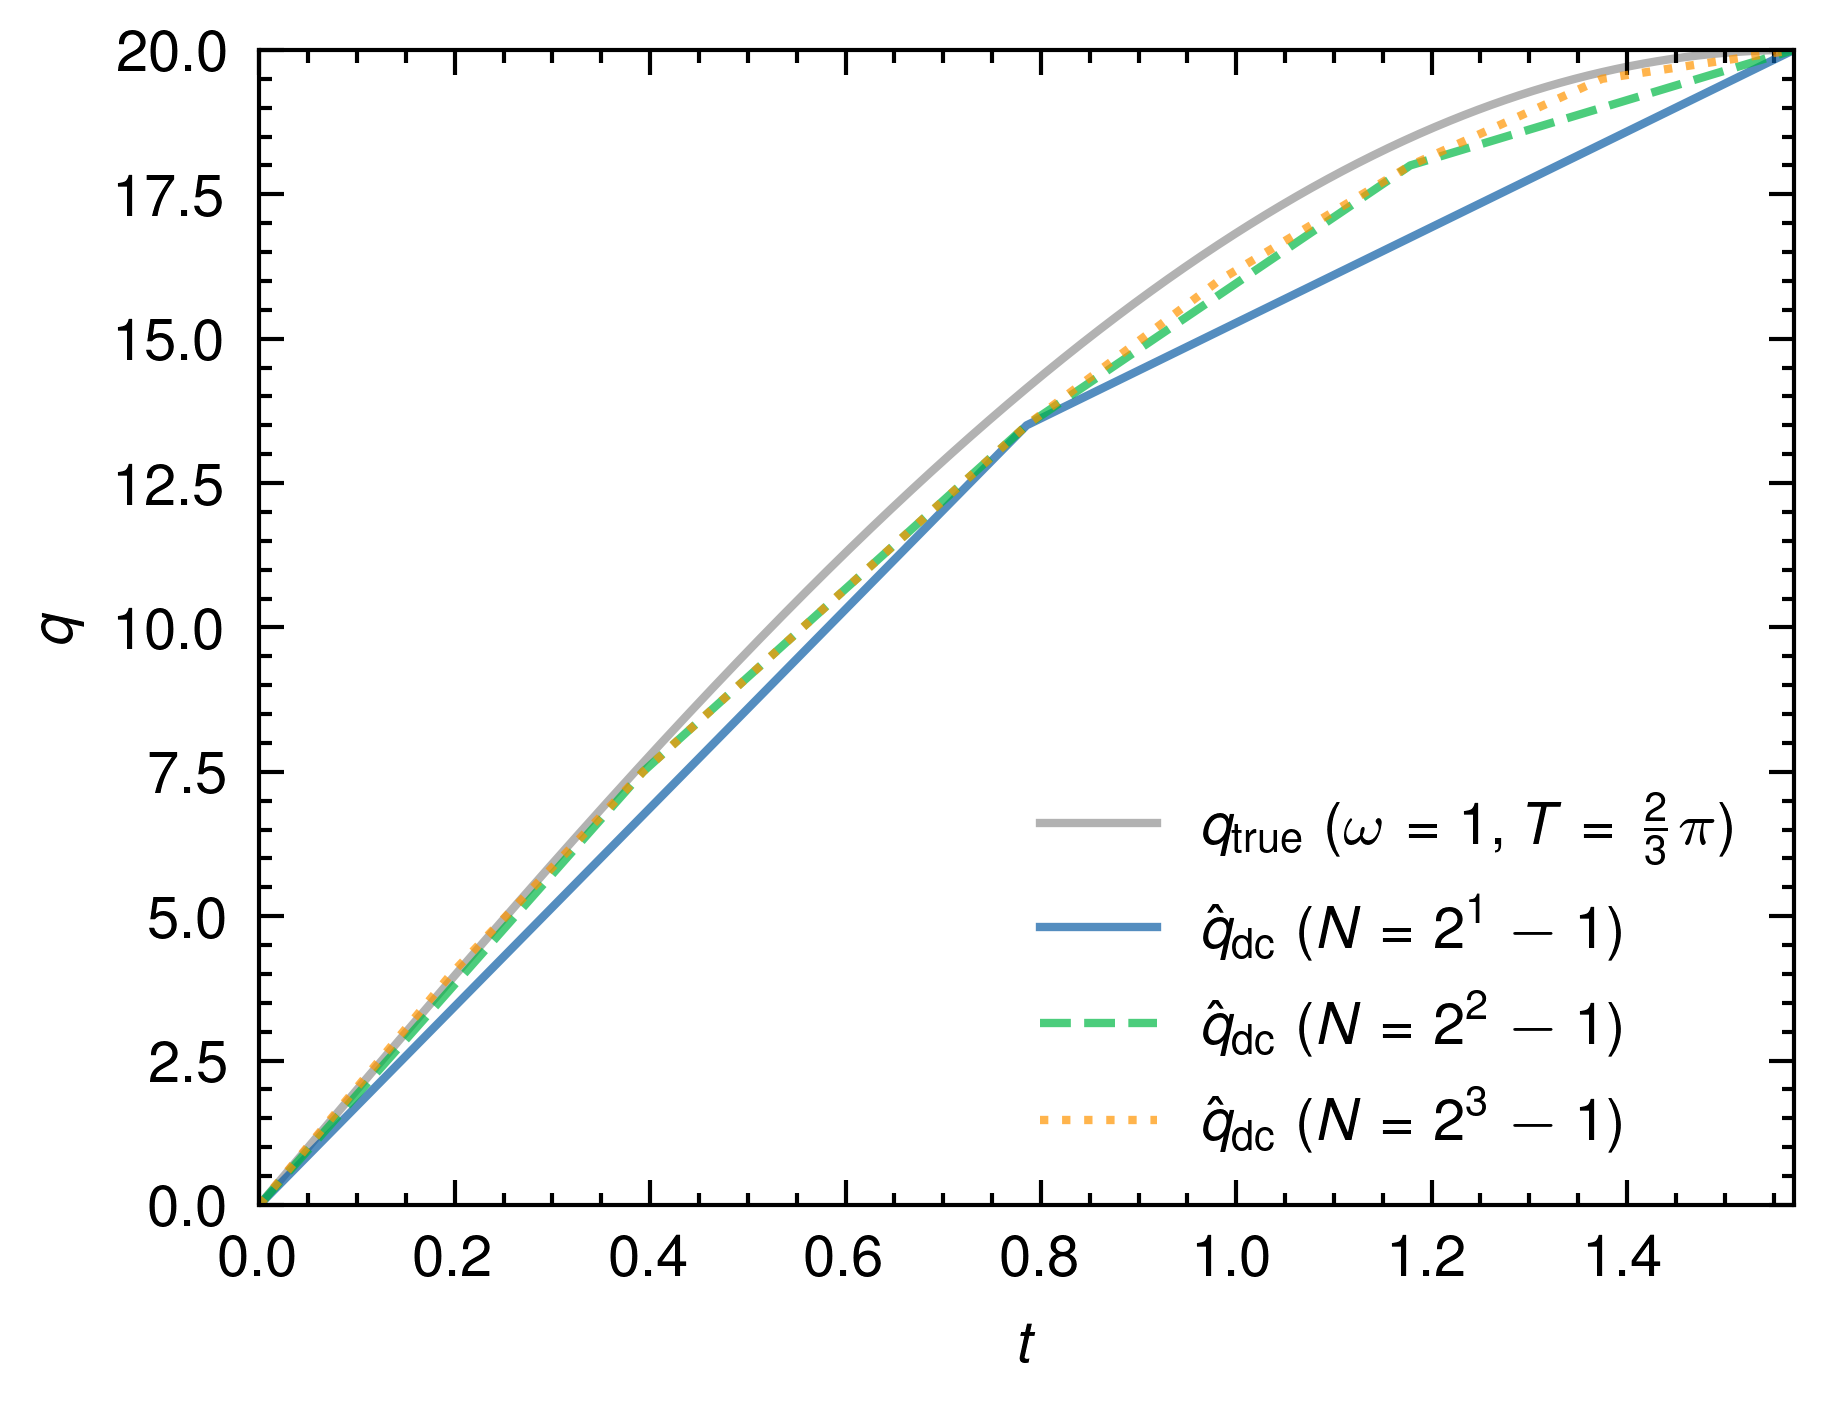
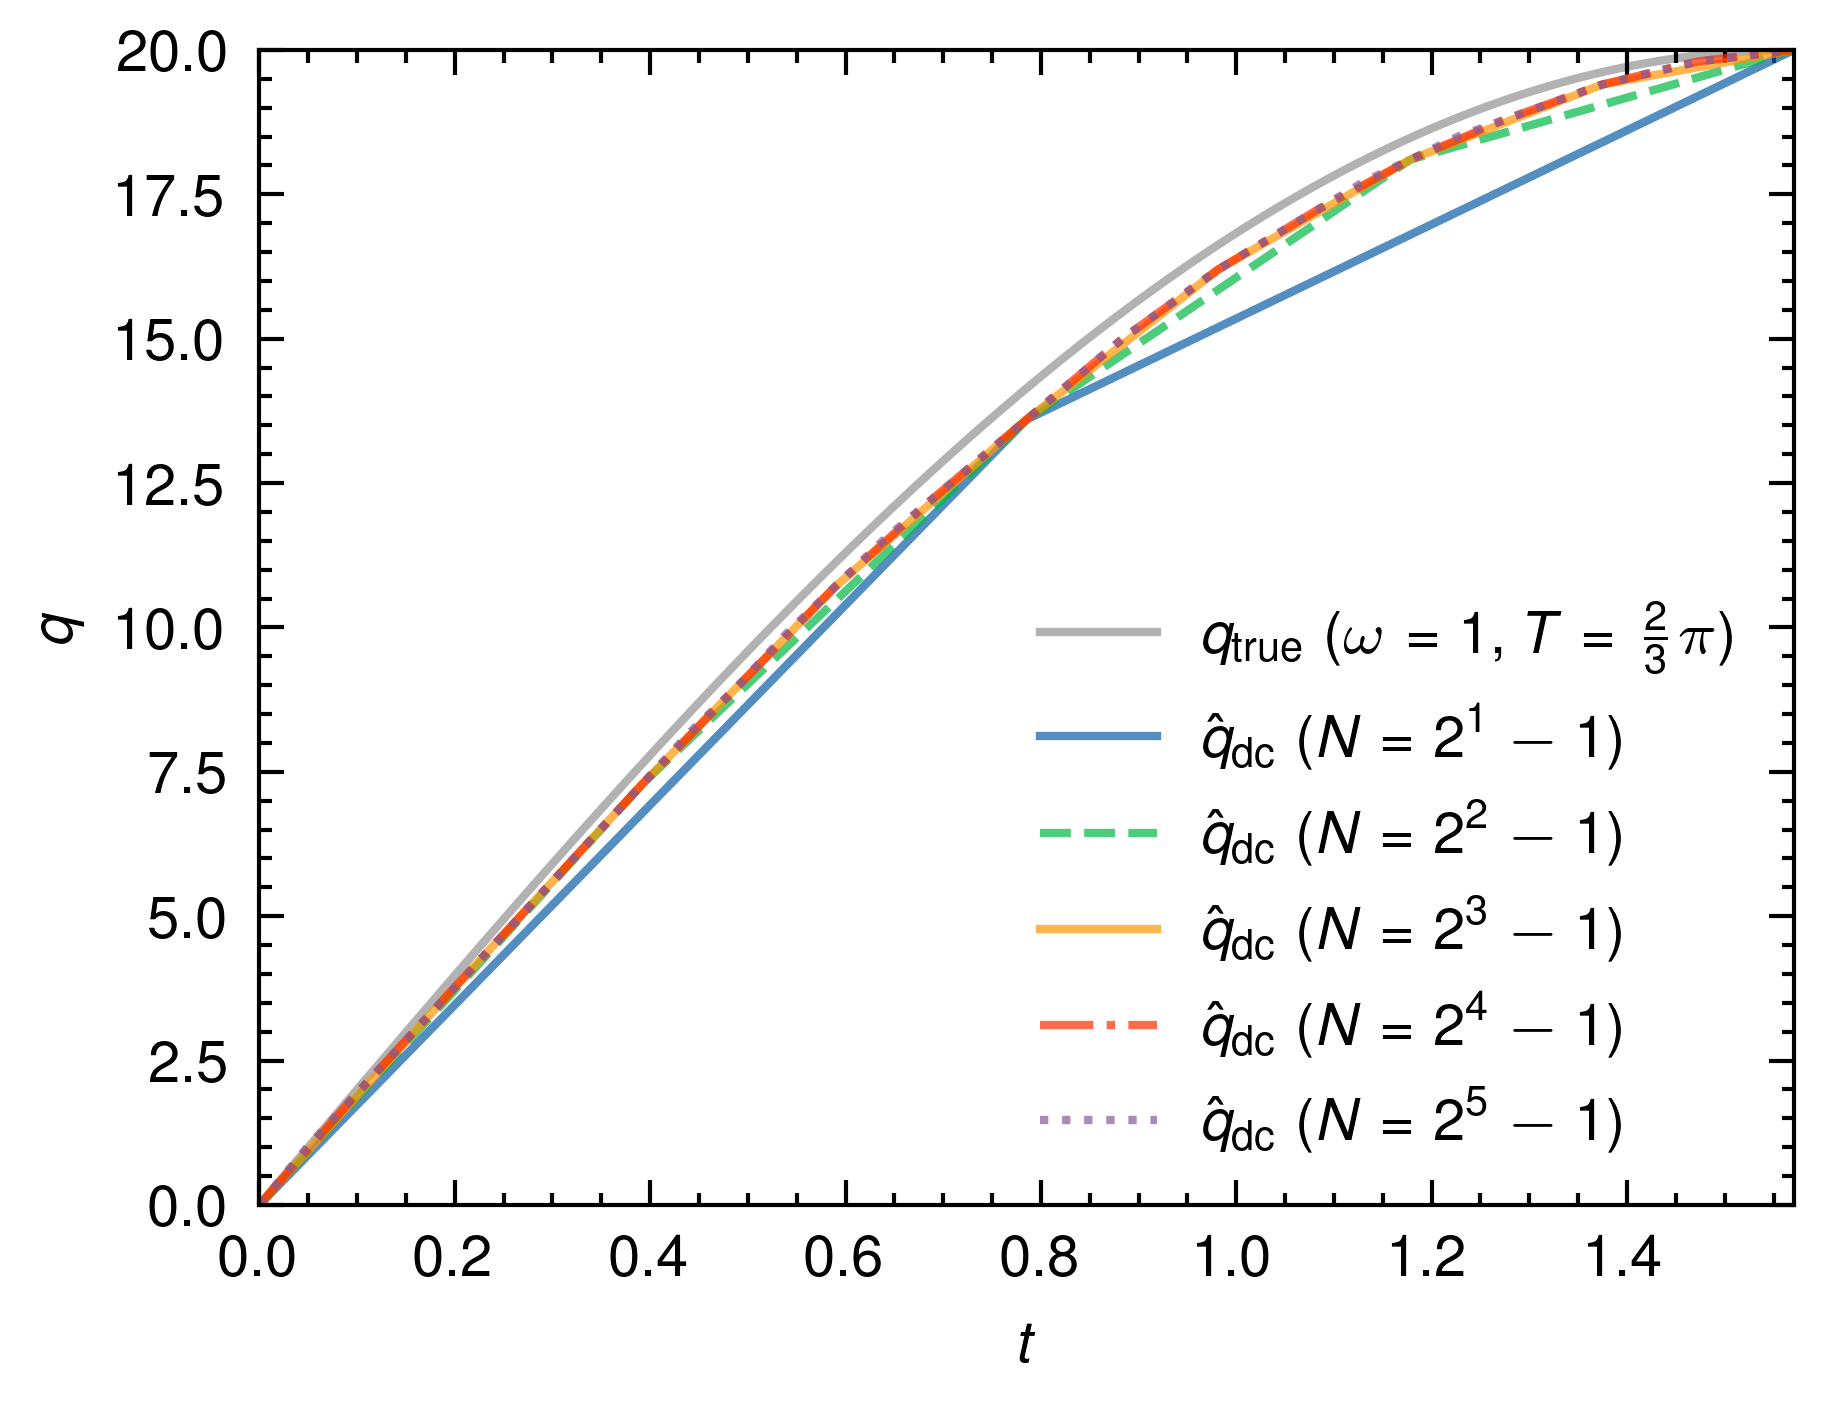
Divide, Conquer and Correct

diff --git a/algola/src/main.rs b/algola/src/main.rs
@@ -1,49 +1,53 @@
-use std::f64::consts::PI;
-use itertools::{Itertools, repeat_n};
-use peroxide::fuga::*;
+use itertools::{repeat_n, Itertools};
+use peroxide::{fuga::*, traits::float::FloatWithPrecision};
 use rayon::prelude::*;
+use std::f64::consts::PI;
 
 #[allow(non_snake_case)]
 fn main() {
     let A = 0.0;
     let B = 20.0;
-    let dq = 0.5;
-    let node_pool = seq(A + dq, B - dq, dq);
+    let dq = 0.1;
+    let node_pool = seq(A + dq, B, dq);
+    let node_pool = node_pool.fmap(|x| x.round_with_precision(1));
 
     let omega = 1f64;
     let T = PI / 2f64;
     let potential = HarmonicOscillator1D::new(omega);
 
     let t_true = linspace(0, T, 1000);
-    let q_true = t_true.fmap(|t| A * (omega * t).cos() + (B - A * (omega * T).cos()) / (omega *
-        T).sin() * (omega * t).sin());
+    let q_true = t_true.fmap(|t| {
+        A * (omega * t).cos() + (B - A * (omega * T).cos()) / (omega * T).sin() * (omega * t).sin()
+    });
 
     let mut df = DataFrame::new(vec![]);
     df.push("t", Series::new(t_true));
     df.push("q", Series::new(q_true));
     df.print();
 
-    df.write_parquet("true.parquet", CompressionOptions::Uncompressed).unwrap();
+    df.write_parquet("true.parquet", CompressionOptions::Uncompressed)
+        .unwrap();
 
     let mut df = DataFrame::new(vec![]);
 
-    let N_pool = 1 .. 4;
+    let N_pool = 1..6;
     for N in N_pool {
-        let bf_nodes = bruteforce_1d_parallel(&node_pool, 2usize.pow(N as u32) - 1, T, A, B, potential);
-        bf_nodes.print();
-        let dc_nodes = divide_and_conquer_1d(&node_pool, N-1, T, A, B, potential);
+        //let bf_nodes = bruteforce_1d_parallel(&node_pool, 2usize.pow(N as u32) - 1, T, A, B, potential);
+        //bf_nodes.print();
+        let dc_nodes = divide_and_conquer_1d(&node_pool, N - 1, T, A, B, potential);
         dc_nodes.print();
-        let dcc_nodes = divide_and_conquer_and_correct_1d(&node_pool, N-1, T, A, B, potential);
+        let dcc_nodes = divide_and_conquer_and_correct_1d(&node_pool, N - 1, T, A, dq, B, potential);
         dcc_nodes.print();
 
-        df.push(&format!("bf_{N}"), Series::new(bf_nodes));
+        //df.push(&format!("bf_{N}"), Series::new(bf_nodes));
         df.push(&format!("dc_{N}"), Series::new(dc_nodes));
         df.push(&format!("dcc_{N}"), Series::new(dcc_nodes));
     }
 
     df.print();
 
-    df.write_parquet("data.parquet", CompressionOptions::Uncompressed).unwrap();
+    df.write_parquet("data.parquet", CompressionOptions::Uncompressed)
+        .unwrap();
 }
 
 pub trait Potential1D: Clone {
@@ -59,7 +63,10 @@ pub struct HarmonicOscillator1D {
 
 impl HarmonicOscillator1D {
     pub fn new(omega: f64) -> HarmonicOscillator1D {
-        HarmonicOscillator1D { omega, omega2: omega.powi(2) }
+        HarmonicOscillator1D {
+            omega,
+            omega2: omega.powi(2),
+        }
     }
 }
 
@@ -72,13 +79,13 @@ impl Potential1D for HarmonicOscillator1D {
 #[allow(non_snake_case)]
 pub fn action_1d<F: Potential1D>(nodes: &[f64], T: f64, start: f64, end: f64, potential: F) -> f64 {
     let N = nodes.len();
-    let dt = T / ((N+1) as f64);
+    let dt = T / ((N + 1) as f64);
 
     let mut nodes = nodes.to_vec();
     nodes.insert(0, start);
     nodes.push(end);
 
-    let nodes_head = &nodes[0..N+1];
+    let nodes_head = &nodes[0..N + 1];
     let nodes_tail = &nodes[1..];
 
     let mut action = 0.0;
@@ -93,7 +100,18 @@ pub fn action_1d<F: Potential1D>(nodes: &[f64], T: f64, start: f64, end: f64, po
 }
 
 #[allow(non_snake_case)]
-pub fn bruteforce_1d<F: Potential1D>(node_pool: &[f64], N: usize, T: f64, start: f64, end: f64, potential: F) -> Vec<f64> {
+pub fn bruteforce_1d<F: Potential1D>(
+    node_pool: &[f64],
+    N: usize,
+    T: f64,
+    start: f64,
+    end: f64,
+    potential: F,
+) -> Vec<f64> {
+    if node_pool.len() == 1 {
+        return vec![node_pool[0]];
+    }
+
     let mut best_action = std::f64::MAX;
     let mut best_nodes = vec![0f64; N];
     for nodes in node_pool.iter().cloned().combinations(N) {
@@ -107,65 +125,144 @@ pub fn bruteforce_1d<F: Potential1D>(node_pool: &[f64], N: usize, T: f64, start:
 }
 
 #[allow(non_snake_case)]
-pub fn bruteforce_1d_parallel<F: Potential1D + Sync>(node_pool: &[f64], N: usize, T: f64, start: f64, end: f64, potential: F) -> Vec<f64> {
+pub fn bruteforce_1d_parallel<F: Potential1D + Sync>(
+    node_pool: &[f64],
+    N: usize,
+    T: f64,
+    start: f64,
+    end: f64,
+    potential: F,
+) -> Vec<f64> {
     let node_combs = node_pool.iter().cloned().combinations(N).collect_vec();
 
-    node_combs.into_par_iter().map(|nodes| {
-        let action = action_1d(&nodes, T, start, end, potential.clone());
-        (action, nodes.clone())
-    }).max_by(|a, b| b.0.partial_cmp(&a.0).unwrap()).unwrap().1
+    node_combs
+        .into_par_iter()
+        .map(|nodes| {
+            let action = action_1d(&nodes, T, start, end, potential.clone());
+            (action, nodes.clone())
+        })
+        .max_by(|a, b| b.0.partial_cmp(&a.0).unwrap())
+        .unwrap()
+        .1
 }
 
 #[allow(non_snake_case)]
-pub fn divide_and_conquer_1d<F: Potential1D>(node_pool: &[f64], D: usize, T: f64, start: f64, end: f64, potential: F) -> Vec<f64> {
+pub fn divide_and_conquer_1d<F: Potential1D>(
+    node_pool: &[f64],
+    D: usize,
+    T: f64,
+    start: f64,
+    end: f64,
+    potential: F,
+) -> Vec<f64> {
     if D == 0 {
         bruteforce_1d(node_pool, 1, T, start, end, potential.clone())
     } else {
         let q = bruteforce_1d(node_pool, 1, T, start, end, potential.clone());
         let index_q = node_pool.iter().position(|&x| x == q[0]).unwrap();
         let node_1 = &node_pool[0..index_q];
-        let node_2 = &node_pool[index_q+1..];
+        let node_2 = &node_pool[index_q + 1..];
 
-        let best_node_1 = divide_and_conquer_1d(node_1, D - 1, T / 2f64, start, q[0], potential.clone());
-        let best_node_2 = divide_and_conquer_1d(node_2, D - 1, T / 2f64, q[0], end, potential.clone());
-        best_node_1.into_iter().chain(q).chain(best_node_2).collect()
+        let best_node_1 =
+            divide_and_conquer_1d(node_1, D - 1, T / 2f64, start, q[0], potential.clone());
+        let best_node_2 =
+            divide_and_conquer_1d(node_2, D - 1, T / 2f64, q[0], end, potential.clone());
+        best_node_1
+            .into_iter()
+            .chain(q)
+            .chain(best_node_2)
+            .collect()
     }
 }
 
 #[allow(non_snake_case)]
-pub fn divide_and_conquer_and_correct_1d<F: Potential1D>(node_pool: &[f64], D: usize, T: f64, start: f64, end: f64, potential: F) -> Vec<f64> {
+pub fn divide_and_conquer_and_correct_1d<F: Potential1D>(
+    node_pool: &[f64],
+    D: usize,
+    T: f64,
+    start: f64,
+    dq: f64,
+    end: f64,
+    potential: F,
+) -> Vec<f64> {
+    if (end - start).abs().round_with_precision(1) <= dq {
+        return vec![(start + end) / 2f64];
+    }
+
     if D == 0 {
         bruteforce_1d(node_pool, 1, T, start, end, potential.clone())
     } else {
         let q = bruteforce_1d(node_pool, 1, T, start, end, potential.clone());
-        let index_q = node_pool.iter().position(|&x| x == q[0]).unwrap();
+        let q_i = q[0].round_with_precision(1);
+        let index_q = node_pool.iter().position(|&x| x == q_i).unwrap();
+
         let node_1 = &node_pool[0..index_q];
-        let node_2 = &node_pool[index_q+1..];
+        let node_2 = &node_pool[index_q + 1..];
+        let best_node_1 = divide_and_conquer_and_correct_1d(
+            node_1,
+            D - 1,
+            T / 2f64,
+            start,
+            dq,
+            q_i,
+            potential.clone(),
+        );
+        let best_node_2 =
+            divide_and_conquer_and_correct_1d(node_2, D - 1, T / 2f64, q_i, dq, end, potential.clone());
+        let mut best_node = best_node_1
+            .clone()
+            .into_iter()
+            .chain(vec![q_i])
+            .chain(best_node_2.clone())
+            .collect_vec();
+        let mut best_action = action_1d(&best_node, T, start, end, potential.clone());
 
-        let best_node_1 = divide_and_conquer_and_correct_1d(node_1, D - 1, T / 2f64, start, q[0], potential.clone());
-        let best_node_2 = divide_and_conquer_and_correct_1d(node_2, D - 1, T / 2f64, q[0], end, potential.clone());
-        let mut best_node = best_node_1.clone().into_iter().chain(q).chain(best_node_2.clone()).collect_vec();
-        let mut action = action_1d(&best_node, T, start, end, potential.clone());
+        let D_isize = D as isize;
+        let d_vec = (-D_isize..0).chain(1..D_isize + 1);
 
-        if index_q > 0 && index_q < node_pool.len() - 1 {
-            let q_in1 = node_pool[index_q - 1];
-            let q_ip1 = node_pool[index_q + 1];
+        for d in d_vec {
+            let index_d = index_q as isize + d;
+            if index_d < 0 || index_d >= node_pool.len() as isize {
+                continue;
+            } else {
+                let index_d = index_d as usize;
+                let q_id = node_pool[index_d];
+                let node_d_1 = &node_pool[0..index_d];
+                let node_d_2 = &node_pool[index_d + 1..];
 
+                let best_node_d_1 = divide_and_conquer_and_correct_1d(
+                    node_d_1,
+                    D - 1,
+                    T / 2f64,
+                    start,
+                    dq,
+                    q_id,
+                    potential.clone(),
+                );
+                let best_node_d_2 = divide_and_conquer_and_correct_1d(
+                    node_d_2,
+                    D - 1,
+                    T / 2f64,
+                    q_id,
+                    dq,
+                    end,
+                    potential.clone(),
+                );
+                let best_node_d = best_node_d_1
+                    .clone()
+                    .into_iter()
+                    .chain(vec![q_id])
+                    .chain(best_node_d_2.clone())
+                    .collect_vec();
+                let action_d = action_1d(&best_node_d, T, start, end, potential.clone());
+
+                if action_d < best_action {
+                    best_action = action_d;
+                    best_node = best_node_d;
+                }
+            }
         }
-        todo!()
 
-        //let indices_1 = best_node_1.iter().map(|x| node_pool.iter().position(|&y| y == *x).unwrap());
-        //let indices_2 = best_node_2.iter().map(|x| node_pool.iter().position(|&y| y == *x).unwrap());
-        //let indices = indices_1.chain(vec![index_q]).chain(indices_2).map(|i| i as i32).collect_vec();
-
-        //let best_nodes: Vec<f64> = best_node_1.into_iter().chain(q).chain(best_node_2).collect();
-
-        //// Correct
-        //let correct_pool = repeat_n(vec![-1, 0, 1], best_nodes.len()).multi_cartesian_product();
-        //correct_pool.map(|cs| {
-        //    let nodes = indices.iter().zip(cs.iter()).map(|(i, c)| *i + c).filter(|&i| i >= 0 && i < best_nodes.len() as i32).map(|i| best_nodes[i as usize]).collect_vec();
-        //    let action = action_1d(&nodes, T, start, end, potential.clone());
-        //    (action, nodes)
-        //}).max_by(|a, b| b.0.partial_cmp(&a.0).unwrap()).unwrap().1
+        best_node
     }
 }

diff --git a/algola/pq_plot.py b/algola/pq_plot.py
@@ -14,43 +14,58 @@ end = q_true[-1]
 
 dh = pd.read_parquet('data.parquet')
 
-species = 3
+species = 5
 
 t_hats = [np.linspace(t_start, t_end, 2**i + 1) for i in range(1, species+1)]
-bfs = []
+#bfs = []
 dcs = []
-for i in range(1, 4):
-    bf = np.array(dh[f'bf_{i}'][:2**i-1])
+dccs = []
+for i in range(1, species+1):
+    #bf = np.array(dh[f'bf_{i}'][:2**i-1])
     dc = np.array(dh[f'dc_{i}'][:2**i-1])
-    bf = np.insert(bf, 0, start)
-    bf = np.append(bf, end)
+    dcc = np.array(dh[f'dcc_{i}'][:2**i-1])
+    #bf = np.insert(bf, 0, start)
+    #bf = np.append(bf, end)
     dc = np.insert(dc, 0, start)
     dc = np.append(dc, end)
-    bfs.append(bf)
+    dcc = np.insert(dcc, 0, start)
+    dcc = np.append(dcc, end)
+    #bfs.append(bf)
     dcs.append(dc)
-styles = ['-', '--', ':']
+    dccs.append(dcc)
+styles = ['-', '--', '-', '-.', ':']
 
 pparam = dict(
     xlabel = r'$t$',
     ylabel = r'$q$',
 )
 
-with plt.style.context(["science", "nature"]):
-    fig, ax = plt.subplots()
-    ax.autoscale(tight=True)
-    ax.set(**pparam)
-    ax.plot(t_true, q_true, 'k', label=r'$q_\text{true}~(\omega=1, T=\frac{2}{3}\pi)$', alpha=0.3)
-    for i in range(1, 4):
-        ax.plot(t_hats[i-1], bfs[i-1], styles[i-1], label=rf'$\hat{{q}}_\text{{bf}} ~(N=2^{i} - 1)$', alpha=0.7)
-    ax.legend()
-    fig.savefig('harmonic_bf.png', dpi=600, bbox_inches='tight')
+#with plt.style.context(["science", "nature"]):
+#    fig, ax = plt.subplots()
+#    ax.autoscale(tight=True)
+#    ax.set(**pparam)
+#    ax.plot(t_true, q_true, 'k', label=r'$q_\text{true}~(\omega=1, T=\frac{2}{3}\pi)$', alpha=0.3)
+#    for i in range(1, 4):
+#        ax.plot(t_hats[i-1], bfs[i-1], styles[i-1], label=rf'$\hat{{q}}_\text{{bf}} ~(N=2^{i} - 1)$', alpha=0.7)
+#    ax.legend()
+#    fig.savefig('harmonic_bf.png', dpi=600, bbox_inches='tight')
 
 with plt.style.context(["science", "nature"]):
     fig, ax = plt.subplots()
     ax.autoscale(tight=True)
     ax.set(**pparam)
     ax.plot(t_true, q_true, 'k', label=r'$q_\text{true}~(\omega=1, T=\frac{2}{3}\pi)$', alpha=0.3)
-    for i in range(1, 4):
+    for i in range(1, species+1):
         ax.plot(t_hats[i-1], dcs[i-1], styles[i-1], label=rf'$\hat{{q}}_\text{{dc}} ~(N=2^{i} - 1)$', alpha=0.7)
     ax.legend()
     fig.savefig('harmonic_dc.png', dpi=600, bbox_inches='tight')
+
+with plt.style.context(["science", "nature"]):
+    fig, ax = plt.subplots()
+    ax.autoscale(tight=True)
+    ax.set(**pparam)
+    ax.plot(t_true, q_true, 'k', label=r'$q_\text{true}~(\omega=1, T=\frac{2}{3}\pi)$', alpha=0.3)
+    for i in range(1, species+1):
+        ax.plot(t_hats[i-1], dccs[i-1], styles[i-1], label=rf'$\hat{{q}}_\text{{dcc}} ~(N=2^{i} - 1)$', alpha=0.7)
+    ax.legend()
+    fig.savefig('harmonic_dcc.png', dpi=600, bbox_inches='tight')
